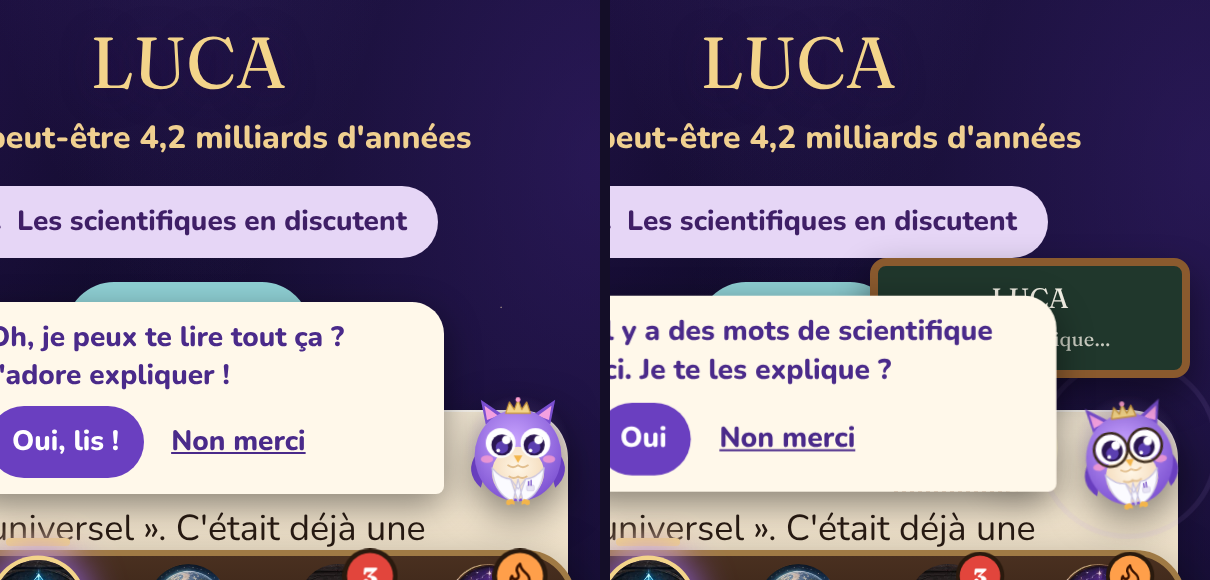
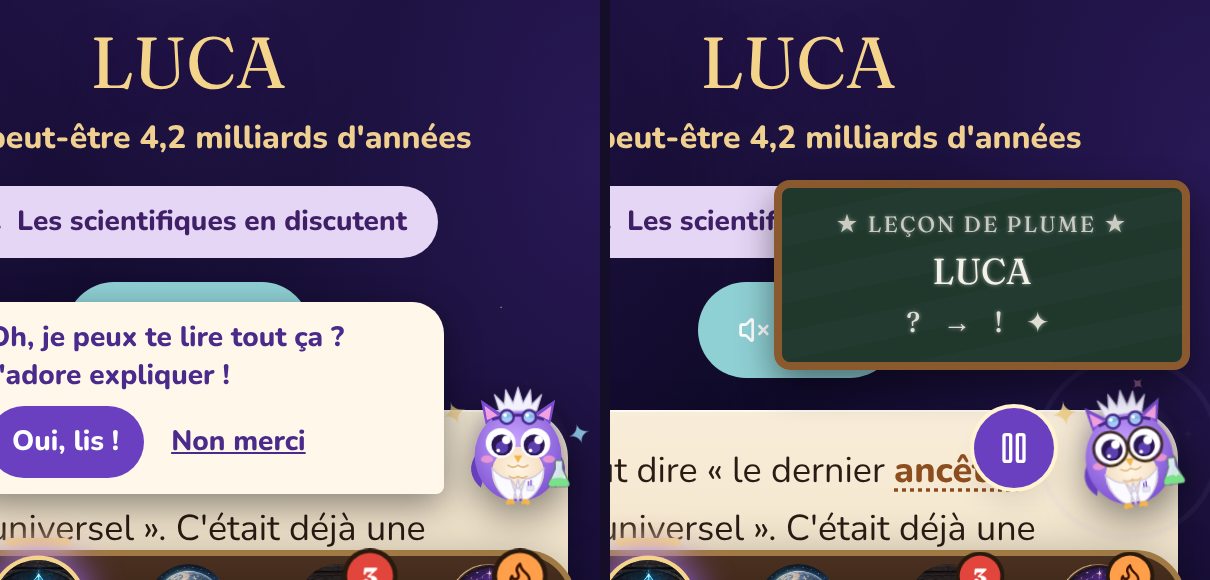
Plume passionnée encore plus excentrique : plumes ébouriffées, lunettes de labo, fiole qui bouillonne, étincelles, grand tableau noir
Claude-Session: https://claude.ai/code/session_01Vucuh79CCoENtiUJkrifR8

Changed region(s): [[0.4281, 0.3103, 1.0, 0.9], [0.3669, 0.6828, 0.4587, 0.7448]]

diff --git a/src/components/plume-dessin.tsx b/src/components/plume-dessin.tsx
@@ -49,7 +49,7 @@ export function PlumeDessin({ anim = "rien", className = "", tenue = "aucune" }:
         <ellipse cx="50" cy="118" rx="10" ry="6" fill="#ff9fcf" opacity=".75" />
         <ellipse cx="150" cy="118" rx="10" ry="6" fill="#ff9fcf" opacity=".75" />
         <path className="pl-bec" d="M93 112 L107 112 L100 124 Z" fill="#f3b54a" />
-        {tenue === "lecture" || tenue === "exploratrice" ? null : (
+        {tenue === "lecture" || tenue === "exploratrice" || tenue === "savante" || tenue === "savante-lit" ? null : (
           <>
             <path d="M80 44 L86 26 L94 38 L100 22 L106 38 L114 26 L120 44 Z" fill="#f3d48a" stroke="#c9963a" strokeWidth="2" strokeLinejoin="round" />
             <circle cx="100" cy="22" r="4" fill="#ff9fcf" />
@@ -79,6 +79,20 @@ export function PlumeDessin({ anim = "rien", className = "", tenue = "aucune" }:
         ) : null}
         {tenue === "savante" || tenue === "savante-lit" ? (
           <g>
+            {/* Plumes ébouriffées de savante folle, et ses grosses lunettes de laboratoire sur le front */}
+            <path d="M70 40 L62 14 L78 30 L80 6 L92 28 L100 2 L108 28 L120 6 L122 30 L138 14 L130 40 Z" fill="#f4f1ff" stroke="#c9c4e0" strokeWidth="2" strokeLinejoin="round" />
+            <path d="M58 54 Q100 40 142 54" stroke="#4a2a8a" strokeWidth="5" fill="none" />
+            <circle cx="82" cy="50" r="11" fill="#9fe3ff" fillOpacity=".75" stroke="#4a2a8a" strokeWidth="4" />
+            <circle cx="118" cy="50" r="11" fill="#9fe3ff" fillOpacity=".75" stroke="#4a2a8a" strokeWidth="4" />
+            <circle cx="79" cy="47" r="3" fill="#fff" />
+            <circle cx="115" cy="47" r="3" fill="#fff" />
+            {/* Sa fiole qui fait des bulles */}
+            <g className="pl-fiole">
+              <path d="M160 120 L160 134 L150 156 Q148 162 154 162 L178 162 Q184 162 182 156 L172 134 L172 120 Z" fill="#e8fff4" fillOpacity=".85" stroke="#5a7a6a" strokeWidth="2" />
+              <path d="M153 150 Q166 146 179 150 L182 156 Q184 162 178 162 L154 162 Q148 162 150 156 Z" fill="#7be08a" />
+              <circle className="pl-bulle1" cx="163" cy="146" r="3" fill="#b9ffc4" />
+              <circle className="pl-bulle2" cx="170" cy="150" r="2.5" fill="#b9ffc4" />
+            </g>
             {/* La blouse blanche de scientifique (un peu folle) */}
             <path d="M58 132 Q62 176 92 186 L100 150 L108 186 Q138 176 142 132 Q128 150 112 150 L100 186 L88 150 Q72 150 58 132 Z" fill="#fbfbff" stroke="#c9c4e0" strokeWidth="2" strokeLinejoin="round" />
             <path d="M88 150 L100 166 L112 150" fill="none" stroke="#c9c4e0" strokeWidth="2" />

diff --git a/src/components/guide.tsx b/src/components/guide.tsx
@@ -255,6 +255,13 @@ export function Plume({ chemin, params }: { chemin: string; params: URLSearchPar
         >
           <span className="absolute inset-1 -z-10 rounded-full bg-[radial-gradient(circle,rgba(180,140,255,.45),transparent_70%)]" />
           {parle ? <span className="onde-plume pointer-events-none absolute -inset-1 -z-10 rounded-full border-2 border-[#c9a4ff]" /> : null}
+          {presence === "passionnee" && !ouvert ? (
+            <>
+              <span className="etincelle pointer-events-none absolute -left-2 top-1 text-sm text-[#f3d48a]">✦</span>
+              <span className="etincelle etincelle-2 pointer-events-none absolute -right-1 top-4 text-xs text-[#9fe3ff]">✦</span>
+              <span className="etincelle etincelle-3 pointer-events-none absolute -top-2 left-1/2 text-[10px] text-[#ff9fcf]">✦</span>
+            </>
+          ) : null}
           <span className="block size-full transition-transform duration-300" style={{ transform: parle ? "rotate(-8deg) translateY(2px)" : "none" }}>
             <PlumeDessin anim={parle ? "parle" : ouvert ? "ailes" : anim} tenue={tenueDe(chemin, parle)} className="size-full drop-shadow-[0_6px_10px_rgba(0,0,0,.5)]" />
           </span>
@@ -262,9 +269,10 @@ export function Plume({ chemin, params }: { chemin: string; params: URLSearchPar
 
         {/* Passionnée : quand elle lit, un petit tableau noir à côté d'elle. */}
         {parle && !ouvert && presence === "passionnee" ? (
-          <span className={`tableau-noir arrivee pointer-events-none absolute bottom-full mb-1 w-40 rounded-lg px-2.5 py-2 text-center ${gauche ? "left-0" : "right-0"}`}>
-            <span className="block font-display text-sm leading-tight">{titrePage()}</span>
-            <span className="mt-1 block text-[10px] opacity-80">Plume explique…</span>
+          <span className={`tableau-noir arrivee pointer-events-none absolute bottom-full mb-2 w-52 rounded-lg px-3 py-2.5 text-center ${gauche ? "left-0" : "right-0"}`}>
+            <span className="craie block text-[11px] tracking-widest opacity-80">★ LEÇON DE PLUME ★</span>
+            <span className="craie mt-1 block font-display text-lg leading-tight">{titrePage()}</span>
+            <span className="craie mt-1 block text-sm tracking-[0.3em] opacity-90">? → ! ✦</span>
           </span>
         ) : null}
 

diff --git a/src/styles.css b/src/styles.css
@@ -491,3 +491,24 @@ body[data-jeu] { padding-bottom: calc(env(safe-area-inset-bottom, 0px) + 1.5rem)
 /* Son tableau noir, écrit à la craie */
 .tableau-noir { background: #20372c; color: #f4f1e6; border: 4px solid #8a5a2e; box-shadow: 0 8px 18px rgba(0,0,0,.45); font-family: var(--font-display); }
 @media (prefers-reduced-motion: reduce) { .plume-impatiente { animation: none; } }
+
+/* Plume passionnée, encore plus excentrique */
+.plume-impatiente { animation: impatiente-folle 2s ease-in-out infinite; }
+@keyframes impatiente-folle {
+  0%, 50%, 100% { transform: translateY(0) rotate(0); }
+  58% { transform: translateY(-14px) rotate(-8deg); }
+  66% { transform: translateY(0) rotate(6deg); }
+  74% { transform: translateY(-8px) rotate(-4deg); }
+  82% { transform: translateY(0) rotate(3deg); }
+  90% { transform: translateY(0) rotate(0); }
+}
+.etincelle { animation: etincelle 1.6s ease-in-out infinite; }
+.etincelle-2 { animation-delay: 0.5s; }
+.etincelle-3 { animation-delay: 1s; }
+@keyframes etincelle { 0%, 100% { opacity: 0; transform: scale(0.5) rotate(0); } 50% { opacity: 1; transform: scale(1.3) rotate(90deg); } }
+.craie { color: #f4f1e6; text-shadow: 0 0 2px rgba(255,255,255,.6); }
+.tableau-noir { background: repeating-linear-gradient(-12deg, #20372c 0 14px, #223a2f 14px 28px); }
+.pl-bulle1 { animation: bulle 1.4s ease-in infinite; }
+.pl-bulle2 { animation: bulle 1.4s ease-in 0.7s infinite; }
+@keyframes bulle { 0% { transform: translateY(0); opacity: 1; } 100% { transform: translateY(-26px); opacity: 0; } }
+@media (prefers-reduced-motion: reduce) { .etincelle, .pl-bulle1, .pl-bulle2 { animation: none; } }

diff --git a/src/lib/plume.ts b/src/lib/plume.ts
@@ -204,7 +204,15 @@ export function ouvrirRegles(r: Explication) {
 
 /** Comment Plume commence une lecture, selon son caractère (toujours vrai : jamais « on en est sûrs » si on ne l'est pas). */
 export function debutLecture() {
-  if (etat.presence === "passionnee") return "Eh oui, Leonie, je vais te dire tout ce que je sais là-dessus ! ";
+  if (etat.presence === "passionnee") {
+    const debuts = [
+      "Eh oui, Leonie ! Je vais te dire tout ce que je sais là-dessus ! ",
+      "Ooooh, Leonie, j'adore ça ! Accroche-toi, j'explique tout ! ",
+      "Par toutes mes plumes, Leonie ! Écoute bien, c'est passionnant ! ",
+      "Leonie, Leonie ! Tu vas adorer ce que je vais te dire ! ",
+    ];
+    return debuts[Math.floor(Math.random() * debuts.length)];
+  }
   if (etat.presence === "etudiante") return "D'après ce que savent les scientifiques… ";
   return "";
 }
